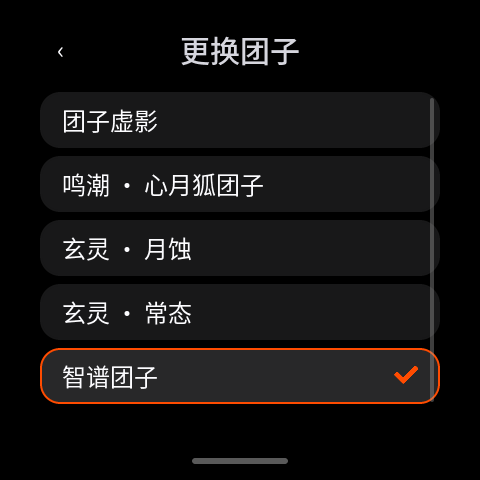
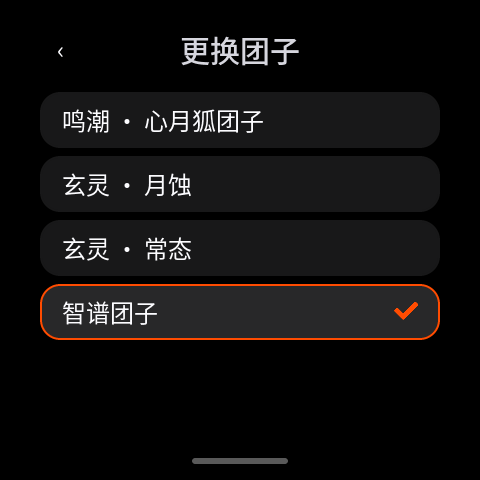
fix: correct dango fangs and settings selection for v0.4.0

diff --git a/crates/os/tests/settings.rs b/crates/os/tests/settings.rs
@@ -124,6 +124,33 @@ fn capture(name: &str, pixels: &Rc<RefCell<Vec<u8>>>) {
     }
 }
 
+unsafe fn assert_scrollbar_has_its_own_lane(row_label: &str) {
+    unsafe {
+        let row = sys::lv_obj_get_parent(label(sys::lv_screen_active(), row_label).unwrap());
+        let list = sys::lv_obj_get_parent(row);
+        let mut horizontal = core::mem::zeroed();
+        let mut vertical: sys::lv_area_t = core::mem::zeroed();
+        sys::lv_obj_get_scrollbar_area(list, &mut horizontal, &mut vertical);
+        assert!(
+            vertical.y2 > vertical.y1,
+            "the overflowing list has a scrollbar"
+        );
+        for index in 0..sys::lv_obj_get_child_count(list) {
+            let mut area: sys::lv_area_t = core::mem::zeroed();
+            sys::lv_obj_get_coords(sys::lv_obj_get_child(list, index as i32), &mut area);
+            assert_eq!(area.x1, 40, "controls keep their original left edge");
+            assert_eq!(
+                area.x2 - area.x1 + 1,
+                400,
+                "controls keep their original width"
+            );
+            assert!(area.x2 + 4 < vertical.x1, "scrollbar must clear every card");
+        }
+        assert_eq!(sys::lv_obj_get_scroll_left(list), 0);
+        assert_eq!(sys::lv_obj_get_scroll_right(list), 0);
+    }
+}
+
 #[test]
 fn categories_controls_and_wifi_password_use_native_events() {
     rs_lvgl::init();
@@ -180,6 +207,7 @@ fn categories_controls_and_wifi_password_use_native_events() {
             label(sys::lv_screen_active(), "玄灵 · 月蚀  ›").is_some(),
             "root displays the active character"
         );
+        assert_scrollbar_has_its_own_lane("更换团子");
     }
     capture("01-settings", &pixels);
     tap(&mut ui, &mut app, 240, 124);
@@ -208,6 +236,7 @@ fn categories_controls_and_wifi_password_use_native_events() {
             sys::lv_color_make(255, 76, 1)
         ));
         assert!(label(sys::lv_screen_active(), "选择后立即切换，重启后保留。").is_none());
+        assert!(label(sys::lv_screen_active(), "团子虚影").is_none());
     }
     capture("01-character", &pixels);
     tap(&mut ui, &mut app, 240, 248);
@@ -644,6 +673,35 @@ fn categories_controls_and_wifi_password_use_native_events() {
         );
     }
     capture("15-sensors-updated", &pixels);
+
+    // A fallback can still be the active renderer, but it is not a choice.
+    app.go(Page::App(AppId::Settings));
+    app.settings_session_mut().skins.clear();
+    app.settings_session_mut().selected_skin = os::companion::skins::PLACEHOLDER_ID.into();
+    ui.mark_dirty();
+    run(&mut ui, &mut app, 100);
+    unsafe {
+        assert!(label(sys::lv_screen_active(), "团子虚影  ›").is_some());
+    }
+    app.update(AppMsg::SettingsPage(settings::Page::Character));
+    ui.mark_dirty();
+    run(&mut ui, &mut app, 100);
+    unsafe {
+        assert!(label(sys::lv_screen_active(), "团子虚影").is_none());
+        assert!(label(sys::lv_screen_active(), "安装团子形象后可在这里切换").is_some());
+    }
+    app.settings_session_mut()
+        .skins
+        .push(os::companion::skins::Choice {
+            id: "default".into(),
+            name: "鸣潮 · 心月狐团子".into(),
+        });
+    ui.mark_dirty();
+    run(&mut ui, &mut app, 100);
+    unsafe {
+        assert!(label(sys::lv_screen_active(), "鸣潮 · 心月狐团子").is_some());
+        assert!(label(sys::lv_screen_active(), "安装团子形象后可在这里切换").is_none());
+    }
     ui.unmount();
     drop(ui);
     unsafe {

diff --git a/crates/os/src/companion/skins/mod.rs b/crates/os/src/companion/skins/mod.rs
@@ -45,11 +45,9 @@ pub struct Choice {
 }
 /// Lightweight catalog: opening Settings reads names, never every image blob.
 /// Full validation remains part of selecting and loading one resource.
+/// The built-in placeholder is a missing-resource fallback, not a character choice.
 pub fn choices(v: &mut Vfs) -> Result<Vec<Choice>, String> {
-    let mut choices = alloc::vec![Choice {
-        id: PLACEHOLDER_ID.into(),
-        name: PLACEHOLDER_NAME.into()
-    }];
+    let mut choices = Vec::new();
     let entries = match v.read_dir(ROOT) {
         Ok(entries) => entries,
         Err(Errno::NOENT) => return Ok(choices),
@@ -88,7 +86,7 @@ pub fn choices(v: &mut Vfs) -> Result<Vec<Choice>, String> {
         "black-blue" => 3,
         _ => 4,
     };
-    choices[1..].sort_by(|a, b| {
+    choices.sort_by(|a, b| {
         order(&a.id)
             .cmp(&order(&b.id))
             .then_with(|| a.id.cmp(&b.id))
@@ -382,7 +380,7 @@ mod tests {
         assert_eq!(fallback.id, PLACEHOLDER_ID);
         assert_eq!(pixels(fallback.skin), pixels(Skin::builtin()));
         assert_eq!(selected(&mut v).unwrap(), "default");
-        assert_eq!(choices(&mut v).unwrap().len(), 1);
+        assert!(choices(&mut v).unwrap().is_empty());
         assert!(select(&mut v, "default").is_err());
 
         install(&mut v, "default", 0);
@@ -390,11 +388,11 @@ mod tests {
         assert_eq!(loaded.id, "default");
         assert_ne!(pixels(loaded.skin), pixels(Skin::builtin()));
         let catalog = choices(&mut v).unwrap();
-        assert_eq!(catalog[0].id, PLACEHOLDER_ID);
         assert_eq!(
-            (catalog[1].id.as_str(), catalog[1].name.as_str()),
+            (catalog[0].id.as_str(), catalog[0].name.as_str()),
             ("default", DEFAULT_NAME)
         );
+        assert_eq!(catalog.len(), 1);
         assert_eq!(list(&mut v).unwrap(), "skin-ls placeholder default");
 
         // An explicitly selected placeholder stays selected after installing
@@ -438,7 +436,6 @@ mod tests {
                 .map(|c| (c.id.as_str(), c.name.as_str()))
                 .collect::<Vec<_>>(),
             [
-                (PLACEHOLDER_ID, PLACEHOLDER_NAME),
                 ("default", "鸣潮 · 心月狐团子"),
                 ("eclipse", "玄灵 · 月蚀"),
                 ("normal", "玄灵 · 常态"),
@@ -488,7 +485,7 @@ mod tests {
         let catalog = choices(&mut v).unwrap();
         assert_eq!(
             catalog.iter().map(|c| c.name.as_str()).collect::<Vec<_>>(),
-            [PLACEHOLDER_NAME, "玄灵 · 月蚀", "玄灵 · 常态", "智谱团子"]
+            ["玄灵 · 月蚀", "玄灵 · 常态", "智谱团子"]
         );
         select(&mut v, "normal").unwrap();
         assert_eq!(selected(&mut v).unwrap(), "normal");

diff --git a/crates/os/src/shell/pages/settings/view/components.rs b/crates/os/src/shell/pages/settings/view/components.rs
@@ -10,6 +10,9 @@ use alloc::{format, string::String};
 use rs_lvgl_ui::{Align, FlexAlign, Key, Part, ScrollDir, ScrollbarMode, Size, Style, View};
 
 pub(super) fn list(key: &'static str) -> View<AppMsg> {
+    // Keep the 400 px controls at x=40; reserve a separate lane to their right
+    // for LVGL's overlay scrollbar, including when the list becomes scrollable.
+    const SCROLLBAR_GUTTER: i16 = 16;
     rs_lvgl_ui::column([])
         .key(Key::Named(key))
         .scrollable(true)
@@ -17,12 +20,17 @@ pub(super) fn list(key: &'static str) -> View<AppMsg> {
         .scrollbar_mode(ScrollbarMode::Auto)
         .style(
             Style::neutral()
-                .width(Size::Px(400))
+                .width(Size::Px(400 + SCROLLBAR_GUTTER))
                 .height(Size::Px(320))
                 .gap(8)
                 .align(Align::TopMid)
-                .offset(0, 92)
+                .offset(SCROLLBAR_GUTTER / 2, 92)
+                .pad_right(SCROLLBAR_GUTTER)
                 .pad_bottom(12),
+        )
+        .part_style(
+            Part::Scrollbar,
+            Style::default().width(Size::Px(4)).pad_right(4),
         )
 }
 pub(super) fn entry(

diff --git a/crates/os/src/shell/pages/settings/view/categories.rs b/crates/os/src/shell/pages/settings/view/categories.rs
@@ -22,7 +22,13 @@ pub(super) fn view(hub: &Hub, session: &Session) -> View<AppMsg> {
                     .iter()
                     .find(|choice| choice.id == session.selected_skin)
                     .map(|choice| choice.name.as_str())
-                    .unwrap_or("读取中")
+                    .unwrap_or(
+                        if session.selected_skin == crate::companion::skins::PLACEHOLDER_ID {
+                            crate::companion::skins::PLACEHOLDER_NAME
+                        } else {
+                            "读取中"
+                        }
+                    )
             ),
             AppMsg::SettingsPage(Page::Character),
         ))

diff --git a/crates/os/src/shell/pages/settings/view/character.rs b/crates/os/src/shell/pages/settings/view/character.rs
@@ -53,7 +53,7 @@ pub(super) fn view(session: &Session) -> View<AppMsg> {
     }
     if !info.storage_ready {
         body = body.child(note("character-loading", "正在读取团子形象"));
-    } else if session.skins.len() <= 1 {
+    } else if session.skins.is_empty() {
         body = body.child(note("character-empty", "安装团子形象后可在这里切换"));
     }
     if let Some(message) = session.message {

diff --git a/scripts/release/notes/v0.4.0.md b/scripts/release/notes/v0.4.0.md
@@ -1,11 +1,13 @@
-dangoOS v0.4.0 将完整团子和 UI 字体移到独立 NAND 资源包，增加统一扬声器输出保护，并修复首页呼吸动画的矩形扫描感。
+dangoOS v0.4.0 将完整团子和 UI 字体移到独立 NAND 资源包，增加统一扬声器输出保护，修复首页呼吸动画的矩形扫描感，并改善团子表情与设置页面。
 
 ## 界面与音频
 
 - Wi-Fi 与蓝牙图标移到团子上方的独立留白，避免与表情重叠；Wi-Fi 用亮起的弧线表示信号强度。
 - 呼吸缩放使用 RGB565 双线性插值，减少细线在整数采样边界跳变，消除脸部和头发中的方框扫描感。
 - 所有扬声器音量来源共用输出上限，包括蓝牙远端音量、设置和 Lua 应用。逻辑音量仍为 0–100，初始 DAC 上限为 −15 dB；该值为保守衰减，仍需实际扬声器标定。
-- 系统内置狐狸团子虚影与居中问号，在启动等待、资源加载或所选资源不可用时显示；设置中可主动选择「团子虚影」。
+- 系统内置狐狸团子虚影与居中问号，在启动等待、资源加载或所选资源不可用时显示；团子候选列表仅显示已安装的完整角色。
+- 修正「玄灵 · 月蚀」「玄灵 · 常态」「智谱团子」生气表情的犬牙，改为从右上嘴缘向下露出；保留各自调色板与其他表情，心月狐资源保持原样。
+- 设置列表右侧为滚动条留出独立空间，卡片保持原有宽度，避免遮挡选项文字和选中边框；更新团子选择与设置页面截图。
 
 ## 独立资源与应用接口
 

diff --git a/CHANGELOG.md b/CHANGELOG.md
@@ -13,8 +13,10 @@
 - 增加固件槽位、内部 RAM 与资源预算检查，以及 TLSF 最大空闲块和分配探针，便于持续评估资源余量。
 - 重绘团子主页的 Wi-Fi 与蓝牙图标，统一线宽并紧凑居中排列；Wi-Fi 以亮起弧线显示信号强度，去掉数值、英文状态文字和分隔线。
 - 四套完整团子全部作为独立 NAND 资源交付，心月狐保留 `default` ID，system 镜像不再包含角色皮肤。
-- 系统内置一张狐狸团子虚影与居中问号，在启动等待、角色加载和资源缺失时共用；可在设置中选择「团子虚影」。
+- 系统内置一张狐狸团子虚影与居中问号，在启动等待、角色加载和资源缺失时共用；完整角色候选列表不显示虚影。
 - 原有角色选择记录继续有效；缺失资源时保留记录，补装后可恢复原角色。OTA 和全量 ZIP 均包含四套团子与安装工具。
+- 修正「玄灵 · 月蚀」「玄灵 · 常态」「智谱团子」生气表情的犬牙：从右上嘴缘向下露出，保留各自原有调色板及其他表情，心月狐资源保持原样。
+- 设置列表为滚动条留出独立空间，保持选项卡片宽度，避免覆盖文字与选中边框；补齐空角色列表与单套角色的显示，并更新设置界面截图。
 
 ### 升级兼容性
 
